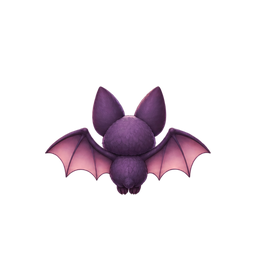
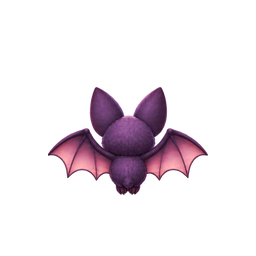
Give humanoid and beast enemies hostile simplified faces

diff --git a/fushigi-monsters-v1/preview.html b/fushigi-monsters-v1/preview.html
@@ -5,14 +5,14 @@
 *{box-sizing:border-box}body{margin:0;background:#10171e;color:#e8edf0;font:15px/1.65 system-ui,sans-serif}main{max-width:1100px;margin:auto;padding:24px 16px 50px}h1{font-size:24px;margin:0 0 6px}h2{font-size:19px}p{color:#b7c5ce;margin:8px 0 18px}a{color:#8ad4e8}button,select{font:inherit;background:#243340;color:inherit;border:1px solid #526573;border-radius:7px;padding:9px 12px;cursor:pointer}button[aria-pressed=true]{background:#776232;border-color:#d4b568}.controls{display:flex;gap:10px;align-items:center;flex-wrap:wrap;margin:15px 0}.directions{display:flex;gap:5px;flex-wrap:wrap}.stageWrap{overflow-x:auto;max-width:100%;border-radius:10px}canvas{display:block;width:960px;max-width:none;height:350px;border-radius:10px;border:1px solid #3b4a54}.panel{background:#19232c;border:1px solid #354550;border-radius:12px;padding:16px;margin:18px 0}.grid{display:grid;grid-template-columns:repeat(4,minmax(0,1fr));gap:8px}.cell{background:#293540;border-radius:8px;text-align:center;overflow:hidden}.cell img{display:block;width:100%;height:auto}.cell span{display:block;font-size:12px;padding:3px 0 8px}.small{font-size:13px}.status{color:#dfc584}.tileSize{width:65px}label{display:flex;gap:7px;align-items:center}@media(max-width:500px){main{padding:17px 10px}h1{font-size:21px}.panel{padding:10px}.controls{gap:7px}.grid{gap:6px;grid-template-columns:repeat(2,minmax(0,1fr))}button,select{padding:8px}.cell span{font-size:10px}}
 </style>
 <main>
-<div class="status small">顔を簡略化した修正版 · 本編統合前</div><h1>モンスター、最初の3種</h1>
+<div class="status small">種族ごとに顔つきを分けた修正版 · 本編統合前</div><h1>モンスター、最初の3種</h1>
 <p>スライム・ゴブリン・コウモリ。承認済み主人公と同じカメラで、大きさと8方向の見た目を確認できます。</p>
-<div class="controls"><label>顔 <select id="faceStyle"><option value="current">修正版：簡略化した顔</option><option value="before">初版：色付きの虹彩</option></select></label><label>背景 <select id="theme"><option value="limestone">鍾乳洞</option><option value="forest">樹林</option><option value="ruins">風化遺跡</option><option value="ice">氷晶洞</option><option value="volcano">火山洞</option></select></label><label>表示 <select id="zoom"><option value="1">実ゲーム相当（1マス64px）</option><option value="2">2倍</option></select></label><button id="rotate" aria-pressed="false">方向を自動切替</button></div>
+<div class="controls"><label>顔 <select id="faceStyle"><option value="current">修正版：悪意のある顔</option><option value="soft">前案：丸い黒目</option><option value="before">初版：色付きの虹彩</option></select></label><label>背景 <select id="theme"><option value="limestone">鍾乳洞</option><option value="forest">樹林</option><option value="ruins">風化遺跡</option><option value="ice">氷晶洞</option><option value="volcano">火山洞</option></select></label><label>表示 <select id="zoom"><option value="1">実ゲーム相当（1マス64px）</option><option value="2">2倍</option></select></label><button id="rotate" aria-pressed="false">方向を自動切替</button></div>
 <div id="dirs" class="directions"></div>
 <p class="small">S＝手前、N＝奥、E＝右、W＝左。自動切替は静止画の向き比較です。歩行・攻撃のアニメーションは次の工程です。</p>
 <div class="stageWrap"><canvas id="stage" width="960" height="350" aria-label="洞窟の床に主人公とモンスター3種を並べた比較"></canvas></div><p class="small">スマートフォンでは左右にスワイプして比較できます。表示サイズは縮小していません。</p><p id="status" class="small" role="status">画像を読み込んでいます…</p>
-<section class="panel"><div class="controls"><h2>8方向の拡大表示</h2><select id="kind"><option value="slime">スライム</option><option value="goblin">ゴブリン</option><option value="bat">コウモリ</option></select></div><div id="contact" class="grid"></div></section>
-<p class="small">修正版はゴブリン・コウモリの色付き虹彩を黒い楕円の目にし、口・鼻・牙を少ない形に整理しました。スライムは初版を維持しています。</p><p class="small">スライム・コウモリは SE→SW、E→W、NE→NW を反転して制作コストを削減。ゴブリンは棍棒を右手に保つため8方向を個別に制作。床と主人公は既存の承認済み素材です。</p>
+<section class="panel"><h2>顔つきのパターン</h2><p><b>人型：狡猾・敵意</b> — ゴブリン。低い眉、睨む目、牙のある口。<br><b>獣系：威嚇・獰猛</b> — コウモリ。吊り目、牙を見せる口。<br><b>不定形・植物系：素朴・不気味</b> — 今回はスライム。単純な目と口。</p></section><section class="panel"><div class="controls"><h2>8方向の拡大表示</h2><select id="kind"><option value="slime">スライム</option><option value="goblin">ゴブリン</option><option value="bat">コウモリ</option></select></div><div id="contact" class="grid"></div></section>
+<p class="small">修正版は人型・獣系に悪意のある顔つきを加えています。ゴブリンは眉を低くした睨み顔、コウモリは吊り目と牙を見せる威嚇顔。スライムは素朴な顔を維持しています。</p><p class="small">スライム・コウモリは SE→SW、E→W、NE→NW を反転して制作コストを削減。ゴブリンは棍棒を右手に保つため8方向を個別に制作。床と主人公は既存の承認済み素材です。</p>
 <p class="small"><a href="../index.html">現在の本編</a> · <a href="README.md">制作記録</a> · <a href="monsters.json">スプライト情報</a></p>
 </main>
 <script>
@@ -20,7 +20,7 @@
 const D=['S','SW','W','NW','N','NE','E','SE'],names={slime:'スライム',goblin:'ゴブリン',bat:'コウモリ'},imgs={},canvas=document.querySelector('#stage'),g=canvas.getContext('2d');
 let face='SE',ready=false,auto=false,last=0,error=null;
 const load=path=>new Promise((resolve,reject)=>{const im=new Image();im.onload=()=>resolve(im);im.onerror=()=>reject(Error('画像を読み込めません: '+path));im.src=path;});
-function grid(){document.querySelector('#contact').replaceChildren(...D.map(d=>{const el=document.createElement('div');el.className='cell';const im=new Image();im.src=(faceStyle.value==='before'?'before-face-v2/':'assets/')+kind.value+'/'+d+'.png';im.alt=names[kind.value]+' '+d;const label=document.createElement('span');label.textContent=d+((kind.value!=='goblin'&&['SW','W','NW'].includes(d))?' · 反転':'');el.append(im,label);return el;}));}
+function grid(){document.querySelector('#contact').replaceChildren(...D.map(d=>{const el=document.createElement('div');el.className='cell';const im=new Image();im.src=({current:'assets/',soft:'before-face-v3/',before:'before-face-v2/'}[faceStyle.value])+kind.value+'/'+d+'.png';im.alt=names[kind.value]+' '+d;const label=document.createElement('span');label.textContent=d+((kind.value!=='goblin'&&['SW','W','NW'].includes(d))?' · 反転':'');el.append(im,label);return el;}));}
 function buttons(){document.querySelector('#dirs').replaceChildren(...D.map(d=>{const b=document.createElement('button');b.textContent=d;b.setAttribute('aria-pressed',String(d===face));b.onclick=()=>{face=d;buttons();draw();};return b;}));}
 function draw(){
  if(!ready)return;
@@ -30,7 +30,7 @@ function draw(){
  for(let y=70;y<330;y+=pitch)for(let x=0;x<960;x+=ts)g.drawImage(imgs[id],x,y,ts,pitch);
  const baseline=260,positions=[160,380,590,800],entries=[['hero','主人公'],...Object.entries(names)];
  entries.forEach(([k,n],i)=>{const x=positions[i];g.fillStyle='rgba(0,0,0,.3)';g.beginPath();g.ellipse(x,baseline,ts*(k==='slime'?.34:.25),ts*.09,0,0,Math.PI*2);g.fill();
- const scale=ts*1.5/192;g.drawImage(imgs[(k==='hero'?'hero':(faceStyle.value==='before'?'before-':'')+k)+':'+face],x-128*scale,baseline-224*scale,256*scale,256*scale);
+ const scale=ts*1.5/192;g.drawImage(imgs[(k==='hero'?'hero':({current:'',soft:'soft-',before:'before-'}[faceStyle.value])+k)+':'+face],x-128*scale,baseline-224*scale,256*scale,256*scale);
  });g.restore();
  entries.forEach(([k,n],i)=>{g.fillStyle='#ecf0f2';g.font='16px system-ui';g.textAlign='center';g.fillText(n,positions[i],327);});
  g.textAlign='left';g.fillStyle='#deca94';g.font='14px system-ui';g.fillText(face+' / 1マス '+ts+'px / 主人公の高さ '+(ts*1.5)+'px',20,32);
@@ -38,7 +38,7 @@ function draw(){
 const faceStyle=document.querySelector('#faceStyle'),theme=document.querySelector('#theme'),zoom=document.querySelector('#zoom'),kind=document.querySelector('#kind');
 faceStyle.onchange=()=>{grid();draw();};theme.onchange=zoom.onchange=draw;kind.onchange=grid;document.querySelector('#rotate').onclick=()=>{auto=!auto;document.querySelector('#rotate').setAttribute('aria-pressed',String(auto));};
 buttons();grid();
-Promise.all([...Object.keys(names),...Object.keys(names).map(k=>'before-'+k),'hero'].flatMap(k=>D.map(async d=>{imgs[k+':'+d]=await load(k==='hero'?'../fushigi-direction-base/assets/hero-base/'+d+'.png':(k.startsWith('before-')?'before-face-v2/'+k.slice(7):'assets/'+k)+'/'+d+'.png');})).concat(['forest','limestone','ruins','ice','volcano'].map(async id=>{imgs[id]=await load('../assets/dungeon/locations-v1/'+id+'/floor1.webp');}))).then(()=>{ready=true;document.querySelector('#status').textContent='3種 × 8方向を読み込みました。主人公の足元と同じ原点で表示しています。';draw();}).catch(e=>{error=e.message;document.querySelector('#status').textContent=error;console.error(e);});
+Promise.all([...Object.keys(names),...Object.keys(names).map(k=>'before-'+k),...Object.keys(names).map(k=>'soft-'+k),'hero'].flatMap(k=>D.map(async d=>{imgs[k+':'+d]=await load(k==='hero'?'../fushigi-direction-base/assets/hero-base/'+d+'.png':(k.startsWith('before-')?'before-face-v2/'+k.slice(7):k.startsWith('soft-')?'before-face-v3/'+k.slice(5):'assets/'+k)+'/'+d+'.png');})).concat(['forest','limestone','ruins','ice','volcano'].map(async id=>{imgs[id]=await load('../assets/dungeon/locations-v1/'+id+'/floor1.webp');}))).then(()=>{ready=true;document.querySelector('#status').textContent='3種 × 8方向を読み込みました。主人公の足元と同じ原点で表示しています。';draw();}).catch(e=>{error=e.message;document.querySelector('#status').textContent=error;console.error(e);});
 function tick(t){if(auto&&t-last>850){last=t;face=D[(D.indexOf(face)+1)%8];buttons();draw();}requestAnimationFrame(tick);}requestAnimationFrame(tick);
 window.MonsterReview={get ready(){return ready;},get error(){return error;},setDirection(d){if(!D.includes(d))throw Error(d);face=d;buttons();draw();}};
 </script></html>

diff --git a/fushigi-monsters-v1/check.py b/fushigi-monsters-v1/check.py
@@ -23,10 +23,10 @@ with sync_playwright() as p:
         page.goto('http://127.0.0.1:8000/fushigi-monsters-v1/preview.html');page.wait_for_function('MonsterReview.ready || MonsterReview.error');assert page.evaluate('MonsterReview.ready'),page.evaluate('MonsterReview.error')
         for kind in m['monsters']:
             page.select_option('#kind',kind);page.wait_for_function('Array.from(document.querySelectorAll("#contact img")).every(i=>i.complete && i.naturalWidth===256)')
-        for style in ['before','current']:
+        for style in ['before','soft','current']:
             page.select_option('#faceStyle',style)
             page.wait_for_function('Array.from(document.querySelectorAll("#contact img")).every(i=>i.complete && i.naturalWidth===256)')
-            prefix='before-face-v2/' if style=='before' else 'assets/'
+            prefix={'before':'before-face-v2/','soft':'before-face-v3/','current':'assets/'}[style]
             assert page.locator('#contact img').first.get_attribute('src').startswith(prefix)
         for theme in ['forest','limestone','ruins','ice','volcano']:page.select_option('#theme',theme)
         page.select_option('#theme','limestone');page.select_option('#kind','goblin')
@@ -37,7 +37,7 @@ with sync_playwright() as p:
         page.locator('#stage').screenshot(path=str(P/f'stage-{name}.png'))
         page.locator('#rotate').click();page.wait_for_function('document.querySelector("#dirs button[aria-pressed=true]").textContent!=="SE"');page.locator('#rotate').click()
         assert not errors and not failures,(errors,failures)
-        report['browsers'].append({'name':name,'viewport':[w,h],'ready':True,'errors':errors,'failedRequests':failures,'noPageOverflow':True,'floorThemes':5,'directions':8,'faceVersions':2})
+        report['browsers'].append({'name':name,'viewport':[w,h],'ready':True,'errors':errors,'failedRequests':failures,'noPageOverflow':True,'floorThemes':5,'directions':8,'faceVersions':3})
         page.close()
     browser.close()
 (P/'validation.json').write_text(json.dumps(report,ensure_ascii=False,indent=2)+'\n')

diff --git a/fushigi-monsters-v1/build.py b/fushigi-monsters-v1/build.py
@@ -6,8 +6,8 @@ P=Path(__file__).resolve().parent
 D=['S','SW','W','NW','N','NE','E','SE']
 CONFIG={
  'slime':dict(name='スライム',cols=5,rows=1,dirs=['S','SE','E','NE','N'],height=92,anchor=224),
- 'goblin':dict(name='ゴブリン',cols=4,rows=2,dirs=D,height=154,anchor=224,source='faces-v2/goblin.png'),
- 'bat':dict(name='コウモリ',cols=5,rows=1,dirs=['S','SE','E','NE','N'],height=112,anchor=196,cuts=[0,501,940,1235,1677,2172],source='faces-v2/bat.png'),
+ 'goblin':dict(name='ゴブリン',cols=4,rows=2,dirs=D,height=154,anchor=224,source='faces-v3/goblin.png'),
+ 'bat':dict(name='コウモリ',cols=5,rows=1,dirs=['S','SE','E','NE','N'],height=112,anchor=196,cuts=[0,505,949,1242,1680,2172],source='faces-v3/bat.png'),
 }
 def sha(p):return hashlib.sha256(p.read_bytes()).hexdigest()
 def clean(im):
@@ -28,7 +28,7 @@ def clean(im):
     from PIL import ImageChops
     a=ImageChops.multiply(a,mask.filter(MaxFilter(5)));im.putalpha(a)
     return im
-meta={'version':2,'status':'simplified-monster-face-review; not approved; not integrated','frameSize':256,'origin':[128,224],'heroHeight':192,'directions':D,'monsters':{}}
+meta={'version':3,'status':'hostile-beast-humanoid-face-review; not approved; not integrated','frameSize':256,'origin':[128,224],'heroHeight':192,'directions':D,'monsters':{}}
 for kind,cfg in CONFIG.items():
     src=P/'source-art'/cfg.get('source',f'{kind}.png');sheet=Image.open(src).convert('RGBA');cells={}
     for i,d in enumerate(cfg['dirs']):

diff --git a/docs/SPRITE_PRODUCTION_HANDOVER.md b/docs/SPRITE_PRODUCTION_HANDOVER.md
@@ -2,6 +2,8 @@
 
 ## モンスター待機基準絵（2026-10-20・最新）
 
+**2026-10-21 JST・種族別の顔**：ユーザーから獣・人型は悪意ある顔つきにする指示。ゴブリンは低い眉と睨む白目/小さな黒目、コウモリは吊り目と牙の見える口へ。簡略化は維持し、無邪気な丸い黒目から変更。スライムの素朴な顔は維持。不定形/植物系、人型、獣系の基本パターンは制作READMEに記載。`source-art/faces-v3/`、前案保存 `before-face-v3/`。プレビューは最新/丸い黒目/初版の3案比較。PR #6更新、基準絵の承認待ち。
+
 **顔の簡略化**：ユーザー添付を顔の情報量の参考に、ゴブリン・コウモリの虹彩を黒い楕円の目へ変更し、口と牙を整理。詳細な人間の子供風の目を避ける。スライムは維持。`source-art/faces-v2/` に参照・修正原画・生成記録、`before-face-v2/` に初版画像を保持。プレビューで初版と修正版を切り替えられる。PR #6は未マージ、顔の採用確認待ち。歩行や攻撃を量産する前にこの方向性を確定する。
 
 `fushigi-monsters-v1/` にスライム・ゴブリン・コウモリを追加。主人公と同じ約26度のカメラ、256×256 RGBA、地面原点(128,224)。ユーザーはモンスターの左右斜め等について反転での制作コスト削減を許可。スライム・コウモリは5方向原画から8方向に展開し、右手棍棒のゴブリンのみ8方向を描いた。初版SEで持ち手が逆になったため、方向ガイドと元原画参照で修正済み。待機基準絵はまだ承認前で、歩行・攻撃・本編接続は次工程。原画・3Dガイド・生成記録・切り出し・メタデータ・比較画面・検証結果を同梱。承認済み主人公の反転禁止・装備仕様は変わらない。

diff --git a/docs/HANDOVER.md b/docs/HANDOVER.md
@@ -2,6 +2,8 @@
 
 ## モンスター制作開始（2026-10-20・最新）
 
+**2026-10-21 JST・最新**：ユーザーは獣・人型の敵に悪意ある顔つきを要求。顔の簡略化と敵意を両立し、人型=低い眉と睨み・狡猾、獣系=吊り目と牙・威嚇、不定形/植物系=素朴さや不気味さ、の基本パターンを制作READMEに記録。ゴブリン・コウモリを修正し、スライムは維持。`source-art/faces-v3/` に原画と生成記録。「顔」で最新/丸い黒目/初版の3案を比較可能。PR #6を更新し、採用確認待ち。本編・モーションは未変更。
+
 **顔の最新修正**：ユーザーは敵の顔を、添付の黄色い丸いモンスター程度に簡略化するよう指示。ゴブリン・コウモリの色付き虹彩と細かい表情を除き、黒い楕円の目・小さな白ハイライト・短い口・単純な牙へ変更。スライムの簡潔な顔は維持。確認画面の「顔」で初版/修正版を比較できる。制作ブランチ `art/monsters-idle-v1`、PR #6（未マージ）。8方向の基準絵は引き続き承認待ち。
 
 ユーザーの指示でスライムと追加2種（ゴブリン・コウモリ）の制作を開始。`fushigi-monsters-v1/` に待機基準絵24枚と比較画面を追加。左右の反転はユーザーが制作コスト削減のため許可。スライム・コウモリは5原画→8方向、ゴブリンは右手棍棒のため8原画。SEの持ち手を個別に修正した。承認済み主人公との実寸比較・床5種・拡大・全方向を確認できる。初版はユーザー確認前。本編統合・歩行・攻撃は次工程。承認済みキャラ・武器12・盾10、統合済みモーション、PR #5までの壁は現状を維持。詳細は `fushigi-monsters-v1/README.md`。更新ごとに確認リンクを送る。

diff --git a/fushigi-monsters-v1/README.md b/fushigi-monsters-v1/README.md
@@ -1,5 +1,17 @@
 # モンスター3種・待機基準絵 v1
 
+## 種族別の敵意ある顔（2026-10-21 JST・最新）
+
+ユーザーは「ゴブリンや蝙蝠など獣・人型の敵は悪意ある顔つき」を指示。前案の丸い黒目は情報量こそ少ないが無邪気すぎた。顔を簡略化する方針は維持しつつ、以下の基本パターンで分ける。
+
+| 系統 | 今回の例 | 顔の基本方針 |
+|---|---|---|
+| 人型 | ゴブリン | 低く寄せた眉、睨む白目と小さな黒目、牙のある口。狡猾さ・敵意 |
+| 獣系 | コウモリ | 吊り目、低い眉、開いた口と尖った牙。威嚇・獰猛さ |
+| 不定形・植物系 | 今回はスライム | 単純な目と口、素朴さ・不気味さ。全種を怒り顔には揃えない |
+
+これは今回の制作の基本方針で、植物型の新敵はまだ制作していない。原画2シートは `source-art/faces-v3/`、前案24画像は `before-face-v3/`。確認画面では「悪意のある顔」「丸い黒目」「初版」の3案を比較可能。スライム・主人公・装備は変更していない。ゴブリンの右手棍棒、コウモリの反転元も維持。基準絵は確認待ちで、本編接続・モーションは次工程。
+
 2026-10-20。スライム・ゴブリン・コウモリの待機8方向を制作した初版。ユーザー確認前で、本編の敵描画にはまだ接続していない。歩行・攻撃は基準絵の確認後に制作する。
 
 ## 顔の簡略化（最新修正）
